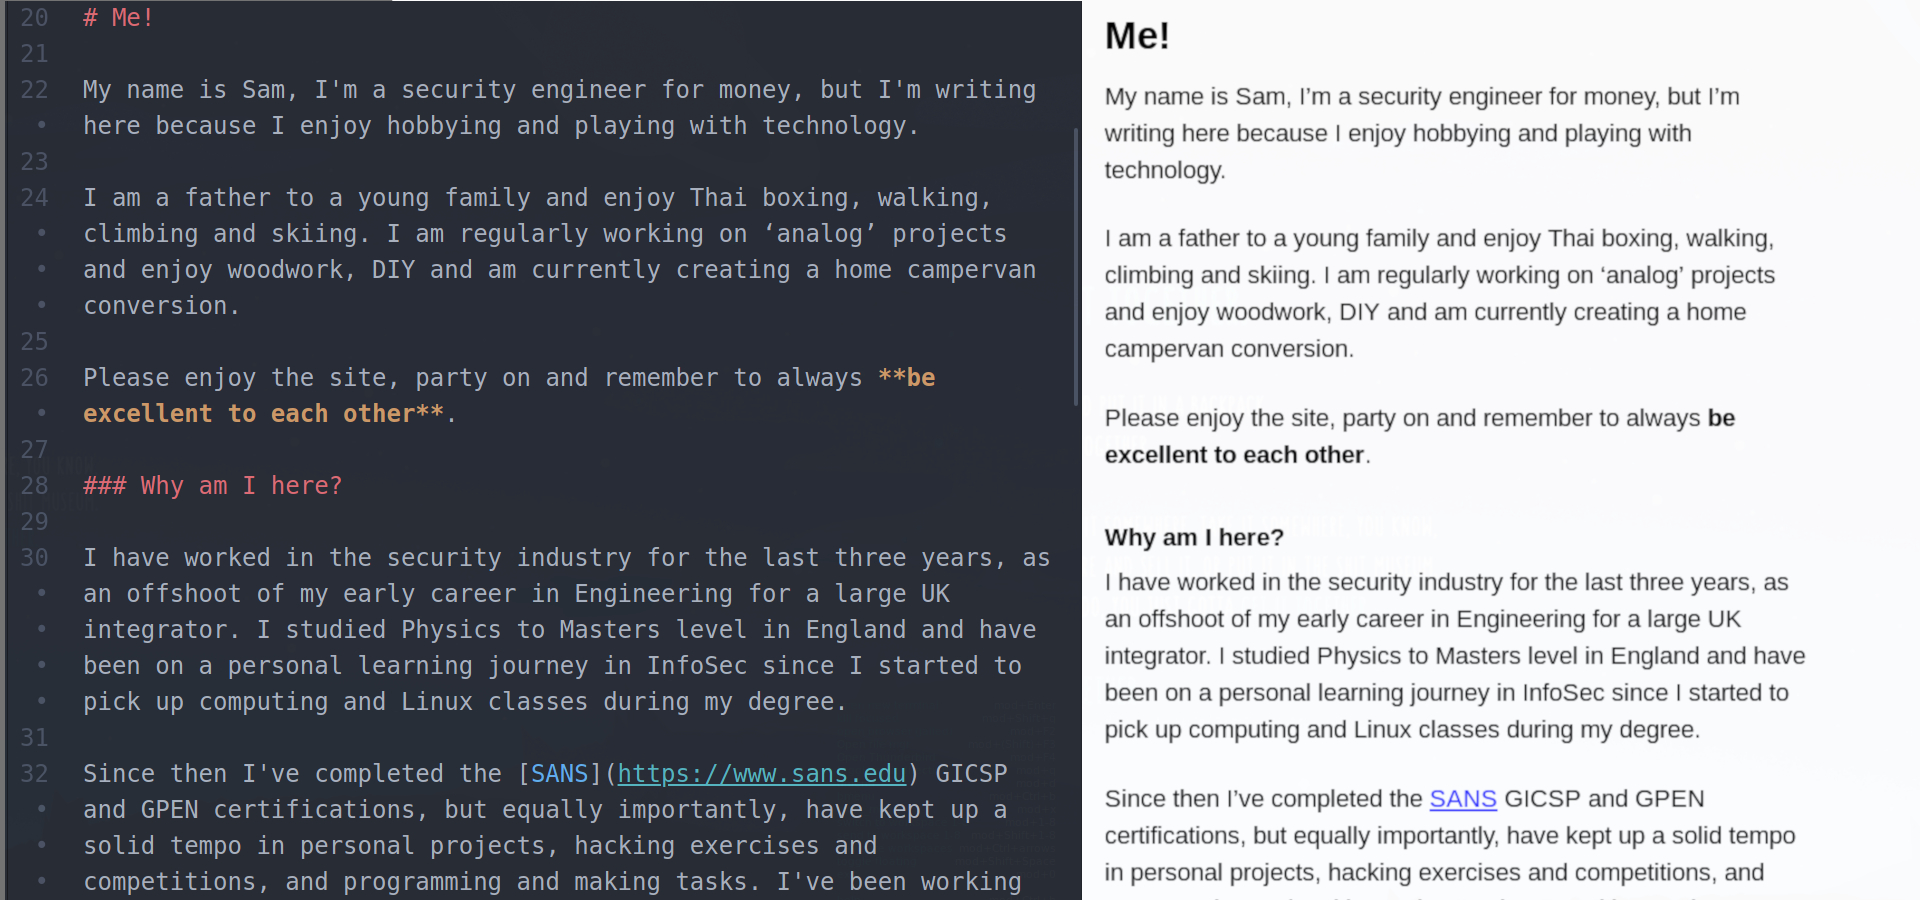
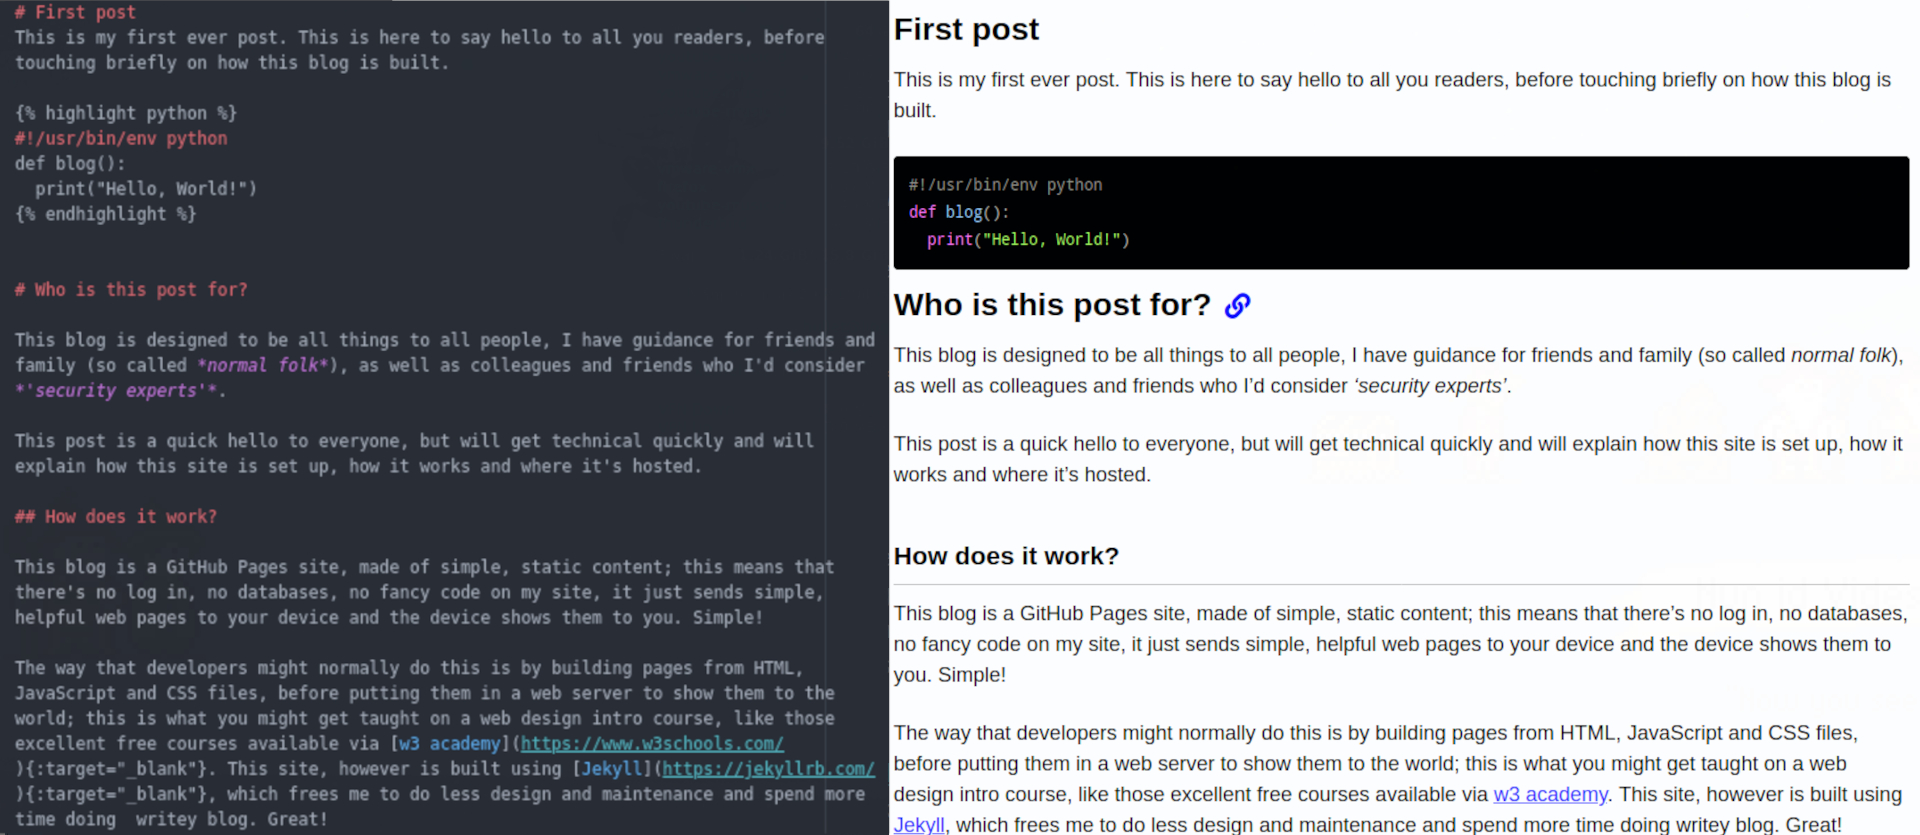
Typos and wording fixes. Image updates

diff --git a/_posts/2019-06-23-Lets-Talk-Passwords.md b/_posts/2019-06-23-Lets-Talk-Passwords.md
@@ -26,7 +26,7 @@ tags:
   - Hashes
   - Cracking
   - Social Engineering
-  - Breeches
+  - Breaches
 
 ---
 
@@ -79,7 +79,7 @@ Passphrase guessing is sometimes prevented by the website or service in question
 ## Breaches & cracking
 Breaches happen when a company loses data either accidentally or as part of some deliberate attack. There have been numerous online breaches in the past, like the [Yahoo](https://www.infosecurity-magazine.com/news/yahoo-confirms-the-breach-of-500mn/){:target="_blank"}, [Adobe](https://krebsonsecurity.com/2013/10/adobe-breach-impacted-at-least-38-million-users/){:target="_blank"} and [RockYou](https://techcrunch.com/2009/12/14/rockyou-hack-security-myspace-facebook-passwords/?guccounter=1&guce_referrer=aHR0cHM6Ly9kdWNrZHVja2dvLmNvbS8&guce_referrer_sig=AQAAAHgn9MBfg8QnKtULXKCw3REA4Ckq7iQlR5isYkAMWQSYtOaunB_3y-erN-74U0BQMu2rgvv5M4lVk7qzStk8UcrTSQ3EvR8pUkfOTWmd3uGhU6ZN4gx5gvbh1-mFMmULmEOvP8vmDDjf_ib8-y7m8skEoTKIi9hE-9nbJWMAO5zi){:target="_blank"} breaches; similar events continue to this day.
 
-A breach may include all sorts of interesting data, but they can publicly disclose legitimate usernames and passphrases from wherever the breech originates. An attacker who causes a breach, or who buys access to breach data can use these details to steal accounts and the most frustrating part is that as a user, you may have done everything right with you passphrase, but it still gets leaked!
+A breach may include all sorts of interesting data, but they can publicly disclose legitimate usernames and passphrases from wherever the breach originates. An attacker who causes a breach, or who buys access to breach data can use these details to steal accounts and the most frustrating part is that as a user, you may have done everything right with you passphrase, but it still gets leaked!
 
 If you're curious about breaches and whether you might be involved, Troy Hunt's [have I been pwned](https://haveibeenpwned.com/){:target="_blank"} site will let you look up your email address and see if you're part of one of the well known data breaches that have been communicated to the site owners. But remember! Just because you're not in there doesn't mean you're not in an *unknown* data breach.
 

diff --git a/_posts/2020-08-25-Micro-Lab.md b/_posts/2020-08-25-Micro-Lab.md
@@ -75,7 +75,9 @@ Still not sure which proxy to pick? I quite like ZAP if you're choosing one to g
 
 ### Browser time
 
-Full disclosure, you can skip this step and use the browser you already have, especially if the browser you have is Firefox! I like to have a separate browser for testing and surfing, because all your browser's traffic will go through the proxy; all that personal usage while you test - music, google, forums etc. - will all go through and be processed by your proxy. This can make for big project files, a slower machine and a general bad time.
+Full disclosure, you can skip this step and use the browser you already have, especially if the browser you have is Firefox!
+
+That said, I prefer to have a separate browser (or at least a separate instance of my browser) for testing and general surfing, because it's simpler, faster and doesn't cause problems when you start auto-manipulating traffic down the line. The main benefit to you, while you're getting to grips with your proxy, is that all that personal usage while you test - music, google, forums etc. - won't be accidentally processed by your proxy; if this happens, you can end up with big project files, a slower machine and a general bad time.
 
 {% include figure image_path="/assets/images/posts/hacking_lab/bad_time.jpg" alt="Don't have a bad time." caption="If you use your proxy to process countless hours of cat videos and play Runescape, you're gonna have a bad time." %}
 

diff --git a/_pages/about.md b/_pages/about.md
@@ -19,7 +19,7 @@ excerpt: "Who am I, anyway?"
 
 # Why am I here?
 
-My name is Sam. I'm a security analyst for money, but I'm writing here because I enjoy playing with technology and this is a place for some of my more popular ramblings; everything on this site is, of course, my own, and doesn't represent the views of any organisations, people, animals or plants I work for, or in any way associate with.
+My name is Sam. I'm a security analyst for money, but I'm writing here because I enjoy playing with technology and this is a place for some of my personal notes and more popular ramblings to live. Every word, opinion, picture and pixel on this site is, of course, my own fault. My content doesn't represent the views of any organisations (or people, animals or plants) I work for or in any way associate with.
 
 Please enjoy the site, party on and remember to always **be excellent to each other**.
 
@@ -36,4 +36,4 @@ I mentor people moving into the field of Information Security both formally and 
 
 ### Something I haven't thought of
 
-Tell me something that would never have occurred to you. I'm sure there are things I could help people with that I haven't thought of; if you know what it is, please, tell me, I'll t\ry!
+I'm sure there are things I could help people with that I haven't thought of; if you know what it is, please, tell me, I'll try!

diff --git a/_posts/2019-10-20-Mr-Robot-Walkthrough.md b/_posts/2019-10-20-Mr-Robot-Walkthrough.md
@@ -225,7 +225,7 @@ We need to guess the login credentials for the site by conducting online passwor
 
 ## Hints
 
-Guessing usernames and passwords from lists can be time consuming, can you find a way to cut down the time taken to guess a large list of users **and** passwords? You have found a dictionary, perhaps this will be useful, maybe you'd like to build your own website from the Mr Robot wiki page. What tools can you find that will let you guess usernames and passwords for web logins, or WordPress installations?
+Guessing usernames and passwords from lists can be time consuming, can you find a way to cut down the time taken to guess a large list of users **and** passwords? You have found a dictionary, perhaps this will be useful, maybe you'd like to build your own wordlist from the Mr Robot wiki page. What tools can you find that will let you guess usernames and passwords for web logins, or WordPress installations?
 
 ## Solution
 
